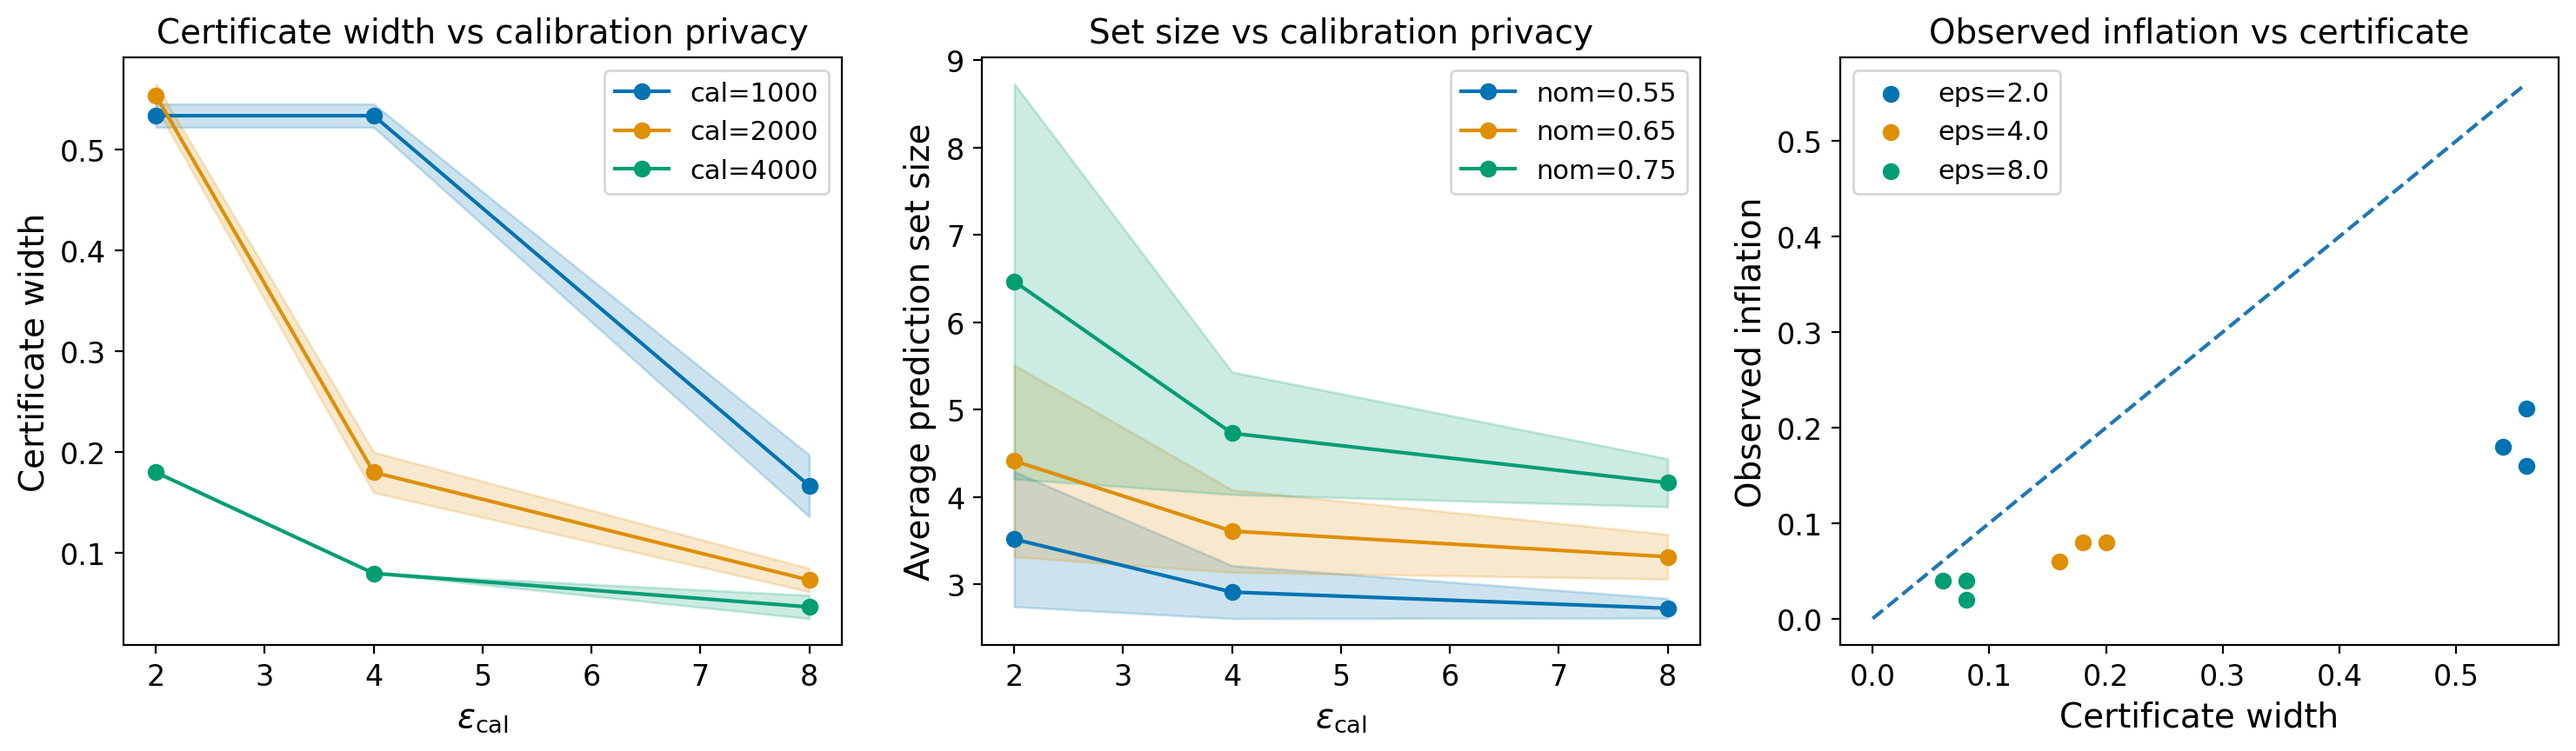
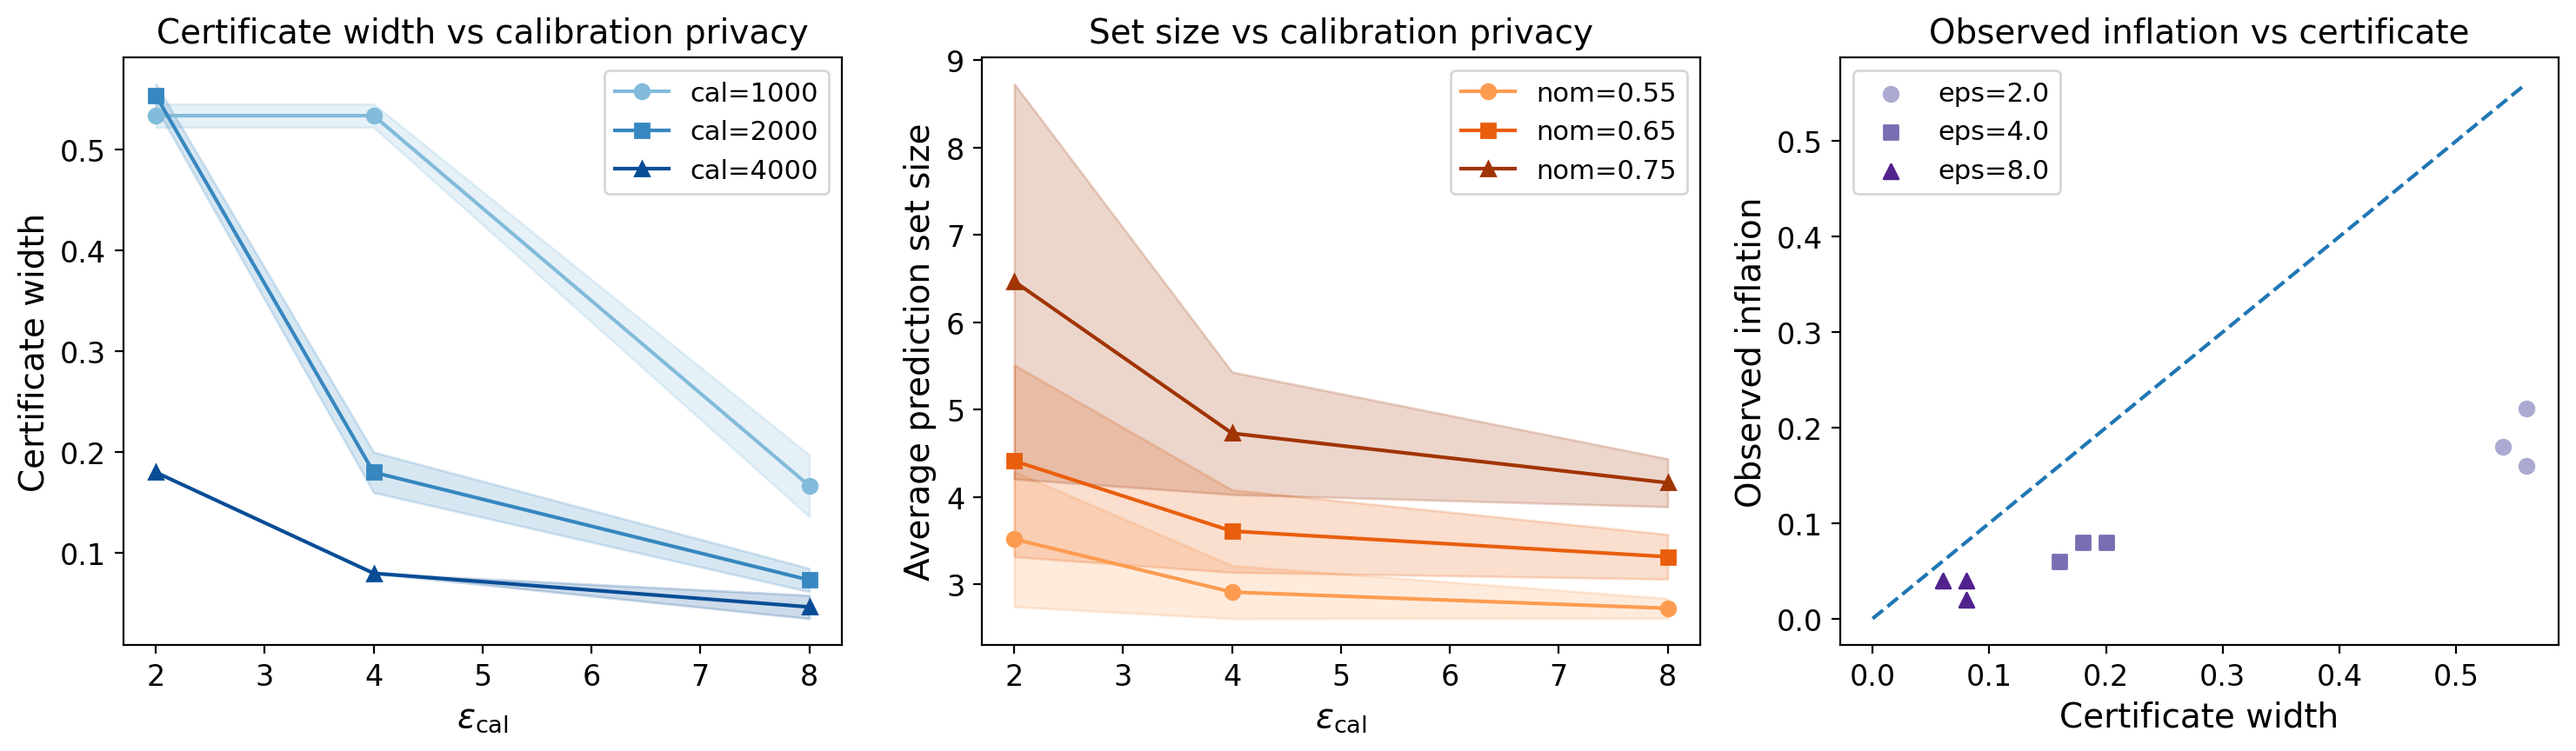
Colorblind plots

diff --git a/toy/plot_three_panels.py b/toy/plot_three_panels.py
@@ -52,6 +52,14 @@ def make_three_panel_figure(
     palette1 = sns.color_palette("colorblind", n_colors=len(sorted(df["cal_size"].unique())))
     palette2 = sns.color_palette("colorblind", n_colors=len(sorted(df["nominal_coverage"].unique())))
     palette3 = sns.color_palette("colorblind", n_colors=len(sorted(df["epsilon_cal"].unique())))
+    # palette1 = sns.color_palette("Blues", n_colors=4)[1:]
+    # palette2 = sns.color_palette("Oranges", n_colors=4)[1:]
+    # palette3 = sns.color_palette("Purples", n_colors=4)[1:]
+    palette1 = sns.color_palette("Blues", n_colors=8)[3::2][:3]
+    palette2 = sns.color_palette("Oranges", n_colors=8)[3::2][:3]
+    palette3 = sns.color_palette("Purples", n_colors=8)[3::2][:3]
+
+    markers = ["o", "s", "^"]
 
 
     fig, axes = plt.subplots(1, 3, figsize=(15, 4.5))
@@ -68,7 +76,7 @@ def make_three_panel_figure(
         raise ValueError("No rows remain for panel 1 after filtering nominal_coverage=0.75")
 
     # for cal_size in sorted(dff["cal_size"].unique()):
-    for color, cal_size in zip(palette1, sorted(dff["cal_size"].unique())):
+    for color, marker, cal_size in zip(palette1, markers, sorted(dff["cal_size"].unique())):
         g = dff[dff["cal_size"] == cal_size].copy()
         gplot = summarize_curve(
             g,
@@ -80,7 +88,8 @@ def make_three_panel_figure(
         ax.plot(
             gplot["epsilon_cal"],
             gplot["center"],
-            marker="o",
+            # marker="o",
+            marker=marker,
             color=color,
             label=f"cal={cal_size}",
         )
@@ -108,7 +117,7 @@ def make_three_panel_figure(
         raise ValueError("No rows remain for panel 2")
 
     # for nomcov in sorted(dff["nominal_coverage"].unique()):
-    for color, nomcov in zip(palette2, sorted(dff["nominal_coverage"].unique())):
+    for color, marker, nomcov in zip(palette2, markers, sorted(dff["nominal_coverage"].unique())):
         g = dff[np.isclose(dff["nominal_coverage"], nomcov)].copy()
         gplot = summarize_curve(
             g,
@@ -120,7 +129,8 @@ def make_three_panel_figure(
         ax.plot(
             gplot["epsilon_cal"],
             gplot["center"],
-            marker="o",
+            # marker="o",
+            marker=marker,
             color=color,
             label=f"nom={nomcov}",
         )
@@ -150,12 +160,13 @@ def make_three_panel_figure(
 
     if dff.empty:
         raise ValueError("No rows remain for panel 3 after filtering cal_size=2000 and nominal_coverage=0.75")
-    for color, eps_cal in zip(palette3, sorted(dff["epsilon_cal"].unique())):
+    for color, marker, eps_cal in zip(palette3, markers, sorted(dff["epsilon_cal"].unique())):
     # for eps_cal in sorted(dff["epsilon_cal"].unique()):
         g = dff[np.isclose(dff["epsilon_cal"], eps_cal)].copy()
         ax.scatter(
             g["certificate_width_tau"],
             g["observed_inflation_tau_grid"],
+            marker=marker,
             color=color,
             label=f"eps={eps_cal}",
         )
@@ -182,12 +193,14 @@ def main() -> None:
     ap.add_argument(
         "--csv",
         type=str,
-        default="analysis/fmnist_main_mechanism_target070/all_reports.csv",
+        # default="analysis/fmnist_main_mechanism_target070/all_reports.csv",
+        default="analysis/main_mechanism_target070/all_reports.csv",
     )
     ap.add_argument(
         "--out",
         type=str,
-        default="analysis/fmnist_main_mechanism_target070/three_panel_main_results.png",
+        # default="analysis/fmnist_main_mechanism_target070/three_panel_main_results.png",
+        default="analysis/main/three_panel_main_results.png",
     )
     ap.add_argument(
         "--aggregate",
